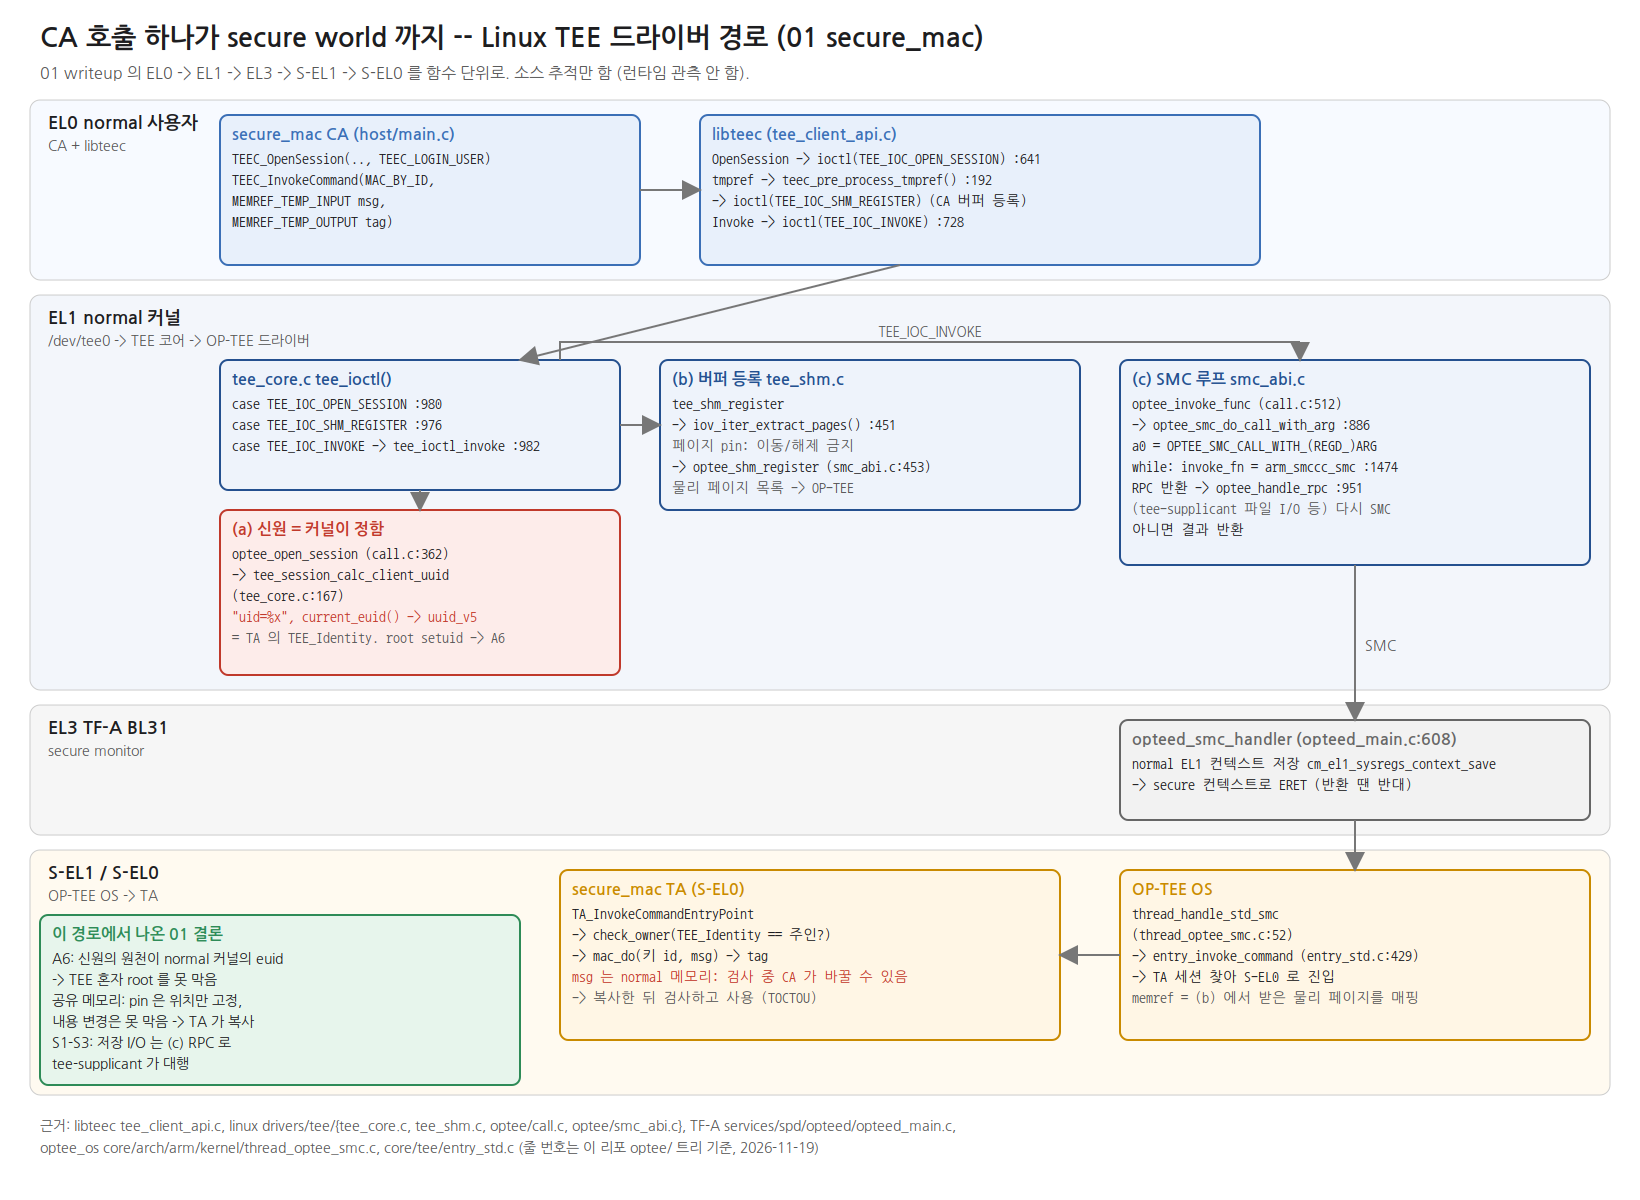
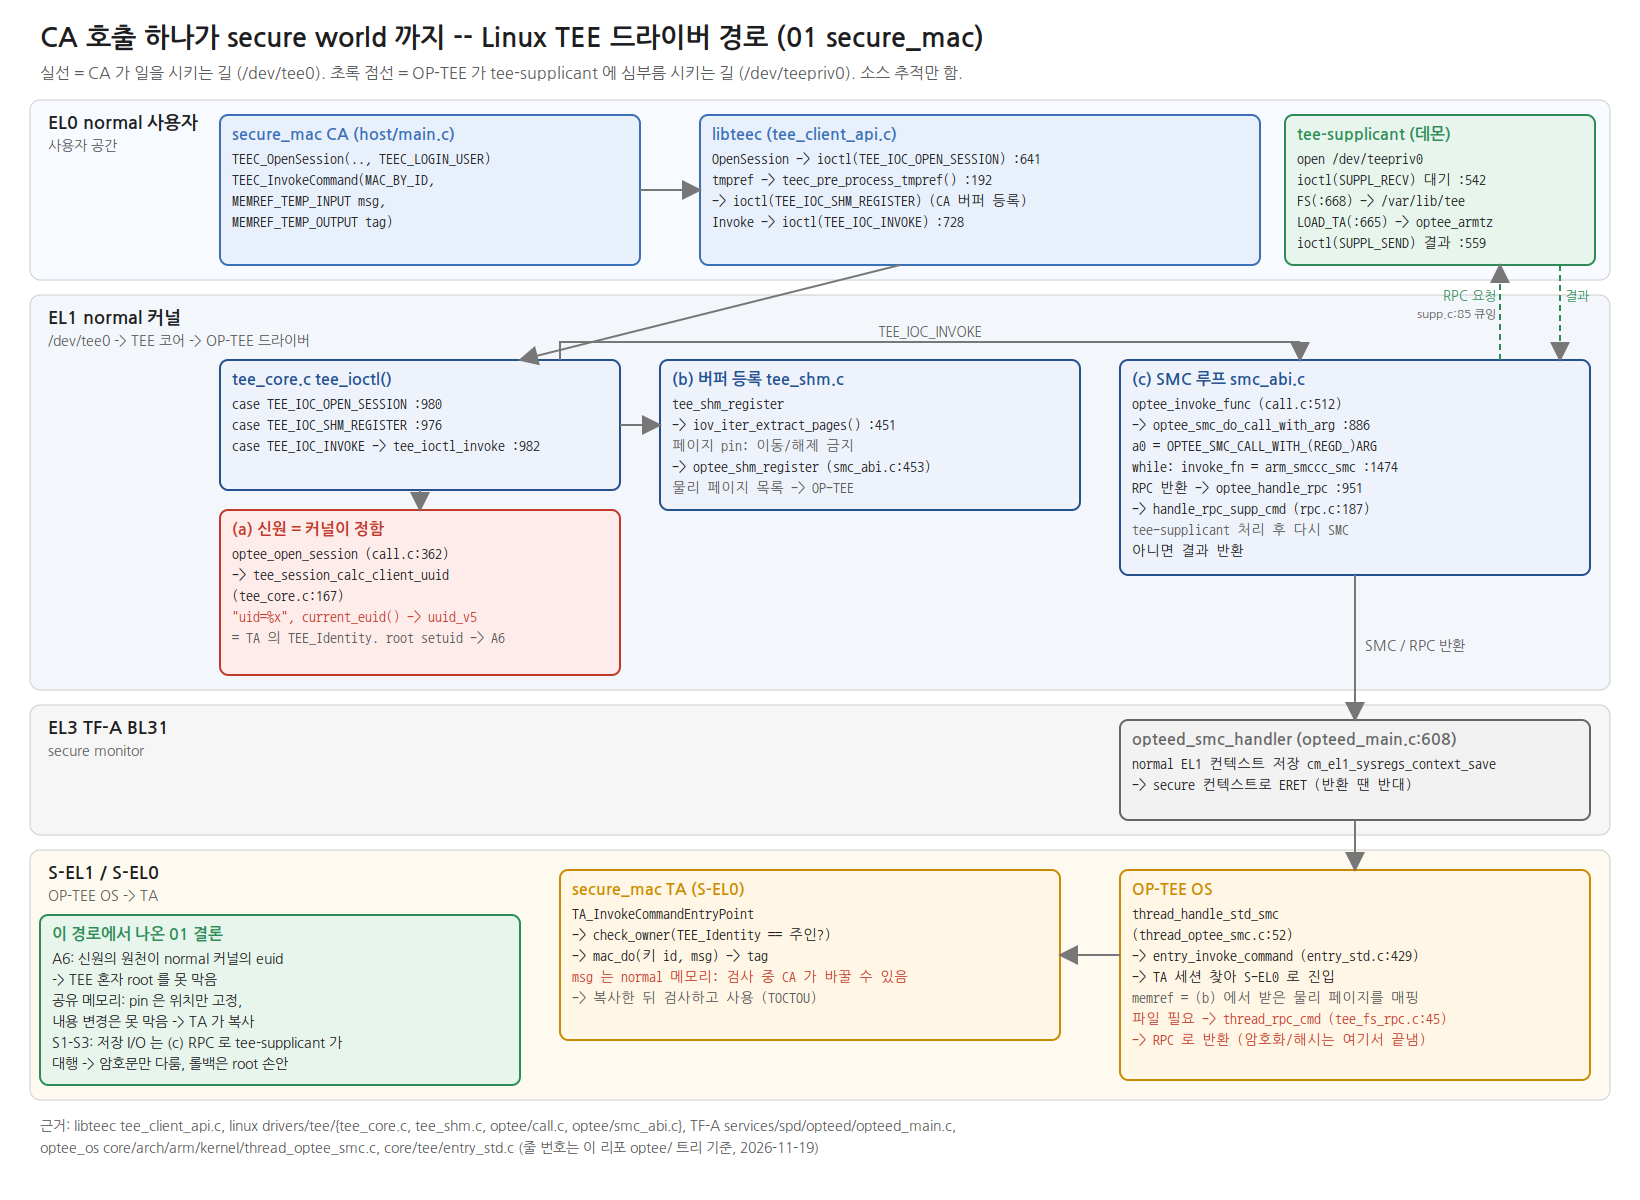
01: 커널 경로 그림에 tee-supplicant RPC 경로 추가 (/dev/teepriv0, SUPPL_RECV/SEND)
Claude-Session: https://claude.ai/code/session_01UDB9vuas8iYdhUNDaszR3x

diff --git a/01-optee-qemu/notes/06-kernel-driver-path.gen.py b/01-optee-qemu/notes/06-kernel-driver-path.gen.py
@@ -62,13 +62,13 @@ def build():
          'orient="auto"><path d="M0,0 L10,5 L0,10 z" fill="#777"/></marker></defs>',
          f'<rect width="{W}" height="{H}" fill="#ffffff"/>',
          text(40, 46, "CA 호출 하나가 secure world 까지 -- Linux TEE 드라이버 경로 (01 secure_mac)", 27, weight="bold"),
-         text(40, 78, "01 writeup 의 EL0 -> EL1 -> EL3 -> S-EL1 -> S-EL0 를 함수 단위로. 소스 추적만 함 (런타임 관측 안 함).",
+         text(40, 78, "실선 = CA 가 일을 시키는 길 (/dev/tee0).  초록 점선 = OP-TEE 가 tee-supplicant 에 심부름 시키는 길 (/dev/teepriv0).  소스 추적만 함.",
               16, C["sub"])]
 
-    lane(o, 100, 180, "EL0  normal 사용자", "CA + libteec", "#f7faff")
+    lane(o, 100, 180, "EL0  normal 사용자", "사용자 공간", "#f7faff")
     lane(o, 295, 395, "EL1  normal 커널", "/dev/tee0 -> TEE 코어 -> OP-TEE 드라이버", "#f3f6fb")
     lane(o, 705, 130, "EL3  TF-A BL31", "secure monitor", "#f6f6f6")
-    lane(o, 850, 245, "S-EL1 / S-EL0", "OP-TEE OS -> TA", "#fffaf0")
+    lane(o, 850, 250, "S-EL1 / S-EL0", "OP-TEE OS -> TA", "#fffaf0")
 
     # EL0
     box(o, 220, 115, 420, 150, "u", "secure_mac CA (host/main.c)", [
@@ -82,6 +82,12 @@ def build():
         "   -> ioctl(TEE_IOC_SHM_REGISTER) (CA 버퍼 등록)",
         "Invoke -> ioctl(TEE_IOC_INVOKE)               :728"])
     o.append(arrow(640, 190, 700, 190))
+    box(o, 1285, 115, 310, 150, "ok", "tee-supplicant (데몬)", [
+        "open /dev/teepriv0",
+        "ioctl(SUPPL_RECV) 대기  :542",
+        "FS(:668) -> /var/lib/tee",
+        "LOAD_TA(:665) -> optee_armtz",
+        "ioctl(SUPPL_SEND) 결과  :559"])
 
     # EL1
     box(o, 220, 360, 400, 130, "k", "tee_core.c  tee_ioctl()", [
@@ -103,32 +109,41 @@ def build():
         " -> optee_shm_register (smc_abi.c:453)",
         "~   물리 페이지 목록 -> OP-TEE"])
     o.append(arrow(620, 425, 660, 425))
-    box(o, 1120, 360, 470, 205, "k", "(c) SMC 루프  smc_abi.c", [
+    box(o, 1120, 360, 470, 215, "k", "(c) SMC 루프  smc_abi.c", [
         "optee_invoke_func (call.c:512)",
         " -> optee_smc_do_call_with_arg   :886",
         "    a0 = OPTEE_SMC_CALL_WITH_(REGD_)ARG",
         "    while: invoke_fn = arm_smccc_smc :1474",
         "      RPC 반환 -> optee_handle_rpc  :951",
-        "~     (tee-supplicant 파일 I/O 등) 다시 SMC",
+        "        -> handle_rpc_supp_cmd (rpc.c:187)",
+        "~       tee-supplicant 처리 후 다시 SMC",
         "      아니면 결과 반환"])
     o.append('<polyline points="560,360 560,342 1300,342" fill="none" stroke="#777" stroke-width="2"/>')
     o.append(arrow(1300, 342, 1300, 360))
     o.append(text(930, 336, "TEE_IOC_INVOKE", 13, C["sub"], anchor="middle"))
 
+    o.append(arrow(1500, 360, 1500, 265, "#2e8b57", dash=True))
+    o.append(arrow(1560, 265, 1560, 360, "#2e8b57", dash=True))
+    o.append(text(1495, 300, "RPC 요청", 13, "#2e8b57", anchor="end"))
+    o.append(text(1565, 300, "결과", 13, "#2e8b57"))
+    o.append(text(1495, 318, "supp.c:85 큐잉", 12, C["sub"], anchor="end"))
+
     # EL3
     box(o, 1120, 720, 470, 100, "m", "opteed_smc_handler (opteed_main.c:608)", [
         "normal EL1 컨텍스트 저장 cm_el1_sysregs_context_save",
         "-> secure 컨텍스트로 ERET (반환 땐 반대)"])
-    o.append(arrow(1355, 565, 1355, 720))
-    o.append(text(1365, 650, "SMC", 14, C["sub"]))
+    o.append(arrow(1355, 575, 1355, 720))
+    o.append(text(1365, 650, "SMC / RPC 반환", 14, C["sub"]))
 
     # S-EL1 / S-EL0
-    box(o, 1120, 870, 470, 170, "s", "OP-TEE OS", [
+    box(o, 1120, 870, 470, 210, "s", "OP-TEE OS", [
         "thread_handle_std_smc",
         "   (thread_optee_smc.c:52)",
         " -> entry_invoke_command (entry_std.c:429)",
         " -> TA 세션 찾아 S-EL0 로 진입",
-        "~memref = (b) 에서 받은 물리 페이지를 매핑"])
+        "~memref = (b) 에서 받은 물리 페이지를 매핑",
+        "!파일 필요 -> thread_rpc_cmd (tee_fs_rpc.c:45)",
+        "!  -> RPC 로 반환 (암호화/해시는 여기서 끝냄)"])
     o.append(arrow(1355, 820, 1355, 870))
     box(o, 560, 870, 500, 170, "s", "secure_mac TA (S-EL0)", [
         "TA_InvokeCommandEntryPoint",
@@ -143,8 +158,8 @@ def build():
         "    -> TEE 혼자 root 를 못 막음",
         "공유 메모리: pin 은 위치만 고정,",
         "    내용 변경은 못 막음 -> TA 가 복사",
-        "S1-S3: 저장 I/O 는 (c) RPC 로",
-        "    tee-supplicant 가 대행"], mono=False)
+        "S1-S3: 저장 I/O 는 (c) RPC 로 tee-supplicant 가",
+        "    대행 -> 암호문만 다룸, 롤백은 root 손안"], mono=False)
 
     o.append(text(40, 1130, "근거: libteec tee_client_api.c, linux drivers/tee/{tee_core.c, tee_shm.c, optee/call.c, optee/smc_abi.c}, "
                   "TF-A services/spd/opteed/opteed_main.c,", 14, C["sub"]))
